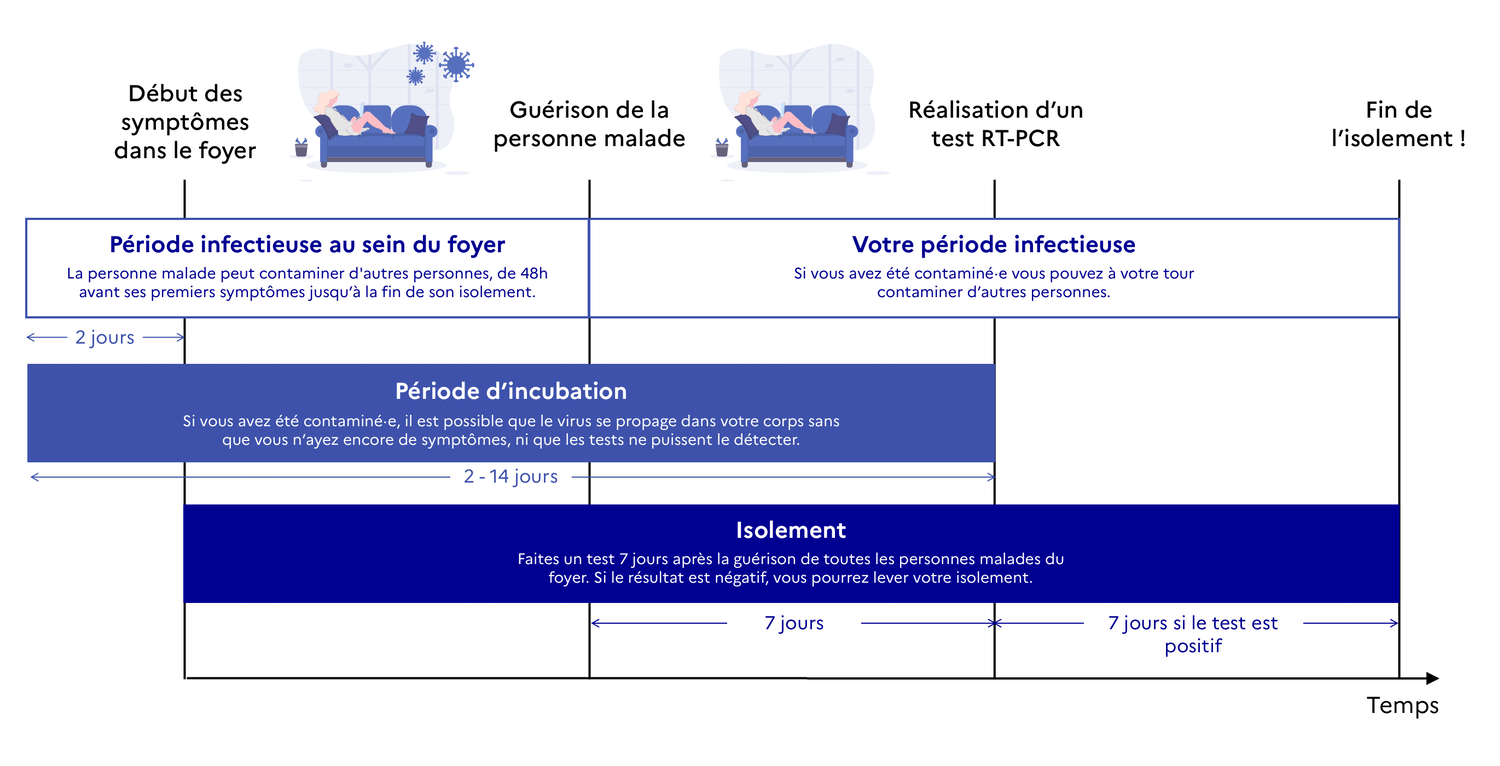
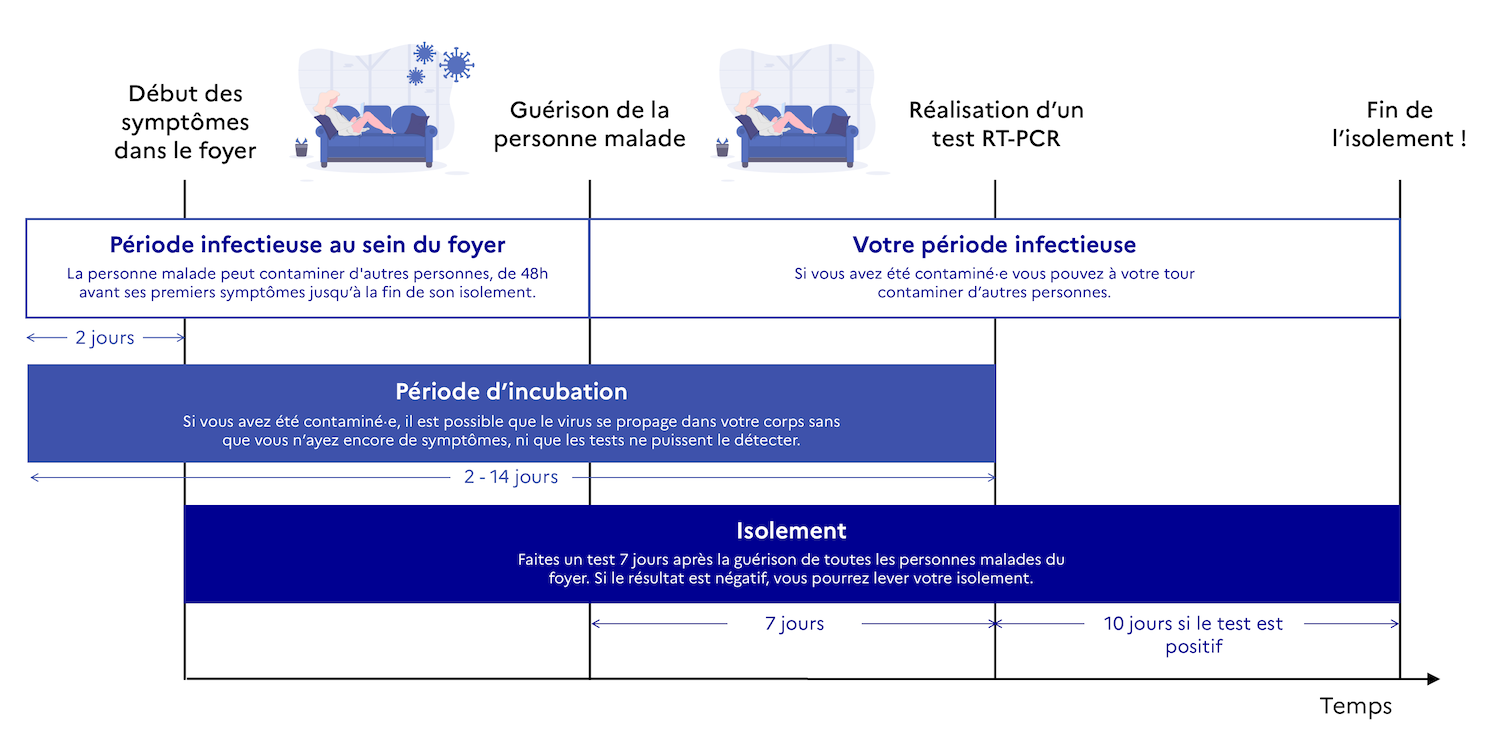
Mise à jour de la doctrine pour les cas contact
- mêmes recommandations quel que soit le variant
- test antigénique immédiatement
- test antigénique ou PCR à 7 jours
- isolement de 10 jours en cas de test positif

diff --git a/src/scripts/algorithme/orientation.js b/src/scripts/algorithme/orientation.js
@@ -10,8 +10,6 @@ const STATUTS = [
     'contact-a-risque-meme-lieu-de-vie',
     'contact-a-risque-meme-lieu-de-vie-sans-depistage',
     'contact-a-risque-sans-test',
-    'contact-a-risque-variante-d-interet-avec-test',
-    'contact-a-risque-variante-d-interet-sans-test',
     'en-attente',
     'personne-fragile',
     'peu-de-risques',
@@ -29,7 +27,6 @@ const STATUTS = [
 const CONSEILS_PERSONNELS = [
     'antigenique-negatif-fragile',
     'contact-a-risque',
-    'contact-a-risque-variante-d-interet',
     'contact-a-risque-autre',
     'contact-a-risque-meme-lieu-de-vie',
     'contact-a-risque-meme-lieu-de-vie-sans-depistage',
@@ -97,10 +94,6 @@ export default class AlgorithmeOrientation {
         }
     }
 
-    contactARisqueVarianteDInteret() {
-        return VARIANTES_D_INTERET[this.profil.contact_a_risque_variante]
-    }
-
     depistageVarianteDInteret() {
         return VARIANTES_D_INTERET[this.profil.depistage_variante]
     }
@@ -117,8 +110,6 @@ export default class AlgorithmeOrientation {
         } else if (this.profil.hasContactARisqueReconnus()) {
             if (this.profil.contact_a_risque_meme_lieu_de_vie) {
                 symptomes = 'contact_a_risque_meme_lieu_de_vie'
-            } else if (this.contactARisqueVarianteDInteret()) {
-                symptomes = 'contact_a_risque_variante_d_interet'
             } else {
                 symptomes = 'contact_a_risque'
             }
@@ -309,19 +300,6 @@ export default class AlgorithmeOrientation {
                 return {
                     statut: 'contact-a-risque-avec-test',
                     conseils: 'contact-a-risque',
-                }
-
-            case 'negatif_contact_a_risque_variante_d_interet':
-            case 'en_attente_contact_a_risque_variante_d_interet':
-                return {
-                    statut: 'contact-a-risque-variante-d-interet-avec-test',
-                    conseils: 'contact-a-risque-variante-d-interet-avec-test',
-                }
-
-            case 'pas_teste_contact_a_risque_variante_d_interet':
-                return {
-                    statut: 'contact-a-risque-variante-d-interet-sans-test',
-                    conseils: 'contact-a-risque-variante-d-interet-sans-test',
                 }
 
             case 'negatif_contact_pas_vraiment_a_risque':

diff --git a/src/template.html b/src/template.html
@@ -743,12 +743,6 @@
                     <div id="statut-contact-a-risque-sans-test" class="statut statut-contact-a-risque-sans-test" hidden>
                         {{ statut_contact_a_risque_sans_test }}
                     </div>
-                    <div id="statut-contact-a-risque-variante-d-interet-avec-test" class="statut statut-contact-a-risque-variante-d-interet-avec-test" hidden>
-                        {{ statut_contact_a_risque_variante_d_interet_avec_test }}
-                    </div>
-                    <div id="statut-contact-a-risque-variante-d-interet-sans-test" class="statut statut-contact-a-risque-variante-d-interet-sans-test" hidden>
-                        {{ statut_contact_a_risque_variante_d_interet_sans_test }}
-                    </div>
                     <div id="statut-en-attente" class="statut statut-en-attente" hidden>
                         {{ statut_en_attente }}
                     </div>
@@ -829,12 +823,6 @@
                 </div>
                 <div id="conseils-personnels-contact-a-risque-meme-lieu-de-vie-sans-depistage" class="conseil" hidden>
                     {{ conseils_personnels_contact_à_risque_meme_lieu_de_vie_sans_depistage }}
-                </div>
-                <div id="conseils-personnels-contact-a-risque-variante-d-interet-avec-test" class="conseil" hidden>
-                    {{ conseils_personnels_contact_à_risque_variante_d_interet_avec_test }}
-                </div>
-                <div id="conseils-personnels-contact-a-risque-variante-d-interet-sans-test" class="conseil" hidden>
-                    {{ conseils_personnels_contact_à_risque_variante_d_interet_sans_test }}
                 </div>
                 <div id="conseils-personnels-depistage-positif-antigenique-asymptomatique" class="conseil" hidden>
                     {{ conseils_personnels_depistage_positif_antigenique_asymptomatique }}

diff --git a/src/scripts/tests/test.situation.js b/src/scripts/tests/test.situation.js
@@ -616,9 +616,9 @@ const matrice = [
             depistage_resultat: 'negatif',
             _depistage_start_date: new Date().toJSON(),
         },
-        situation: 'negatif_contact_a_risque_variante_d_interet',
-        statut: 'contact-a-risque-variante-d-interet-avec-test',
-        conseils: 'contact-a-risque-variante-d-interet-avec-test',
+        situation: 'negatif_contact_a_risque',
+        statut: 'contact-a-risque-avec-test',
+        conseils: 'contact-a-risque',
     },
     {
         description: 'Négatif et contact à risque même lieu de vie',
@@ -785,9 +785,9 @@ const matrice = [
             depistage_resultat: 'en_attente',
             _depistage_start_date: new Date().toJSON(),
         },
-        situation: 'en_attente_contact_a_risque_variante_d_interet',
-        statut: 'contact-a-risque-variante-d-interet-avec-test',
-        conseils: 'contact-a-risque-variante-d-interet-avec-test',
+        situation: 'en_attente_contact_a_risque',
+        statut: 'contact-a-risque-avec-test',
+        conseils: 'contact-a-risque',
     },
     {
         description: 'En attente et contact à risque même lieu de vie',
@@ -883,9 +883,9 @@ const matrice = [
             contact_a_risque_variante: '20H/501Y.V2_ou_20J/501Y.V3',
             depistage: false,
         },
-        situation: 'pas_teste_contact_a_risque_variante_d_interet',
-        statut: 'contact-a-risque-variante-d-interet-sans-test',
-        conseils: 'contact-a-risque-variante-d-interet-sans-test',
+        situation: 'pas_teste_contact_a_risque',
+        statut: 'contact-a-risque-sans-test',
+        conseils: 'contact-a-risque',
     },
     {
         description: 'Pas testé et contact à risque même lieu de vie',

diff --git a/src/style.css b/src/style.css
@@ -644,8 +644,6 @@ main footer .legals {
 .statut-contact-a-risque-meme-lieu-de-vie,
 .statut-contact-a-risque-meme-lieu-de-vie-sans-depistage,
 .statut-contact-a-risque-sans-test,
-.statut-contact-a-risque-variante-d-interet-avec-test,
-.statut-contact-a-risque-variante-d-interet-sans-test,
 .statut-positif-symptomatique-urgent,
 .statut-symptomatique-antigenique-positif,
 .statut-symptomatique-en-attente,

diff --git a/src/scripts/tests/integration/test.parcours.js b/src/scripts/tests/integration/test.parcours.js
@@ -241,7 +241,7 @@ describe('Parcours', function () {
             )
             assert.include(
                 (await contact_a_risque.innerText()).trim(),
-                'Prévoir un test en laboratoire'
+                'Si le test est négatif, restez en isolement, et faites un test'
             )
             await waitForPlausibleTrackingEvent(page, 'Questionnaire terminé:conseils')
         }

diff --git a/contenus/conseils/README.md b/contenus/conseils/README.md
@@ -340,13 +340,15 @@ Comme vous avez des signes de la Covid et que vous avez des risques de développ
 
 Nous vous conseillons de :
 
-1. Vous maintenir **en isolement pendant 7 jours** après le dernier contact à risque.
-2. Appliquer **les mesures barrières renforcées** avec les autres membres de votre foyer.
-3. Si vous constatez l’apparition de **symptômes**, contactez votre médecin et faites vous tester. Vous pouvez suivre l’évolution de vos symptômes avec le [questionnaire de suivi](#suivisymptomes).
-4. **Prévoir un test en laboratoire au 7<sup>e</sup> jour** suivant le dernier contact avec le malade, en consultant [la carte des lieux de test](https://www.sante.fr/cf/centres-depistage-covid.html). En tant que « Cas contact » d’une personne malade vous serez prioritaire pour faire votre test :
-    * S’il est **négatif**, vous pourrez lever votre isolement.
-    * Si le test est **positif**, il faudra à nouveau 7 jours d’isolement, et surveiller l’apparition de symptômes.
-5. Revenir sur Mes Conseils Covid **si votre situation change** afin d’avoir les conseils adaptés à votre nouvelle situation !
+1. Vous maintenir **en isolement**.
+2. Faire un **test antigénique immédiatement** (voir la [carte des lieux de test](https://www.sante.fr/cf/centres-depistage-covid.html)).
+    * Si le test est **positif**, restez **en isolement au moins 10 jours** à partir de la date du test, et renseignez le [résultat du test](#depistage) pour mettre à jour ces conseils.
+    * Si le test est **négatif**, restez **en isolement**, et faites un test **7 jours après le dernier contact à risque** ;
+        * s’il est **négatif**, vous pourrez lever votre isolement ;
+        * s’il est **positif**, restez en isolement **au moins 10 jours** à partir de la date du test, et surveillez l’apparition de symptômes.
+5. Appliquer **les mesures barrières renforcées** avec les autres membres de votre foyer.
+6. Si vous constatez l’apparition de **symptômes**, contactez votre médecin et faites vous tester. Vous pouvez suivre l’évolution de vos symptômes avec le [questionnaire de suivi](#suivisymptomes).
+7. Revenir sur Mes Conseils Covid **si votre situation change** afin d’avoir les conseils adaptés à votre nouvelle situation !
 
 
 
@@ -365,10 +367,10 @@ Nous vous conseillons de :
 
 1. Vous maintenir **en isolement**.
 2. Appliquer **les mesures barrières renforcées** avec la personne malade et les autres membres de votre foyer.
-3. **Faire un test** en laboratoire 7 jours après la guérison de la personne malade :
-    * S’il est **négatif**, vous pourrez lever votre isolement.
-    * Si le test est **positif**, il faudra à nouveau 7 jours d’isolement, et surveiller l’apparition de symptômes.
-4. Si vous constatez l’apparition de **symptômes**, contactez votre médecin, et suivez leur évolution avec le [questionnaire de suivi](#suivisymptomes).
+3. Faire un test **7 jours après la guérison** de la personne malade :
+    * s’il est **négatif**, vous pourrez lever votre isolement ;
+    * s’il est **positif**, restez en isolement **au moins 10 jours** à partir de la date du test, et surveillez l’apparition de symptômes.
+4. Si vous constatez l’apparition de **symptômes**, contactez votre médecin et faites vous tester. Vous pourrez suivre leur évolution avec le [questionnaire de suivi](#suivisymptomes).
 5. Revenir sur Mes Conseils Covid **si votre situation change** afin d’avoir les conseils adaptés à votre nouvelle situation !
 
 
@@ -378,42 +380,14 @@ Nous vous conseillons de :
 Nous vous conseillons de :
 
 1. Vous maintenir **en isolement**.
-2. Appliquer **les mesures barrières renforcées** avec la personne malade et les autres membres de votre foyer.
-3. Faire un **test de dépistage** en laboratoire :
-    * Si celui-ci est positif, **restez 7 jours en isolement**.
-    * Si celui-ci est négatif, **restez en isolement** et **refaites un test** 7 jours après la guérison de la personne malade.
-4. Si vous constatez l’apparition de **symptômes**, contactez votre médecin et faites vous tester. Vous pouvez suivre l’évolution de vos symptômes avec le [questionnaire de suivi](#suivisymptomes).
-5. Revenir sur Mes Conseils Covid **si votre situation change** afin d’avoir les conseils adaptés à votre nouvelle situation !
-
-
-
-## [conseils_personnels_contact_à_risque_variante_d_interet_avec_test.md](conseils_personnels_contact_à_risque_variante_d_interet_avec_test.md)
-
-Nous vous conseillons de :
-
-1. **Refaire un test RT-PCR immédiatement**, si votre dernier test date d’avant votre dernier contact à risque, pour pouvoir prévenir au plus vite les personnes avec qui vous avez été en contact. Consultez [la carte des lieux de test](https://www.sante.fr/cf/centres-depistage-covid.html) pour trouver un laboratoire. En tant que « cas contact » d’une personne malade, vous serez prioritaire pour faire votre test.
-2. Vous maintenir **en isolement** pendant au moins **7 jours** après le dernier contact à risque, même si le résultat du premier test est négatif.
-3. Faire un **test de contrôle** au 7<sup>e</sup> jour après le dernier contact à risque :
-    * s’il est **négatif**, vous pourrez lever votre isolement ;
-    * s’il est **positif**, vous devrez prolonger votre isolement pendant **7 jours**, puis vous pourrez lever votre isolement.
-4. Appliquer **les mesures barrières renforcées** avec les autres membres de votre foyer.
-5. Si vous constatez l’apparition de **symptômes**, contactez votre médecin. Vous pouvez suivre l’évolution de vos symptômes avec le [questionnaire de suivi](#suivisymptomes).
-6. Revenir sur Mes Conseils Covid **si votre situation change** afin d’avoir les conseils adaptés à votre nouvelle situation !
-
-
-
-## [conseils_personnels_contact_à_risque_variante_d_interet_sans_test.md](conseils_personnels_contact_à_risque_variante_d_interet_sans_test.md)
-
-Nous vous conseillons de :
-
-1. **Faire un test RT-PCR immédiatement**, pour pouvoir prévenir au plus vite les personnes avec qui vous avez été en contact. Consultez [la carte des lieux de test](https://www.sante.fr/cf/centres-depistage-covid.html) pour trouver un laboratoire. En tant que « cas contact » d’une personne malade, vous serez prioritaire pour faire votre test.
-2. Vous maintenir **en isolement** pendant au moins **7 jours** après le dernier contact à risque, même si le résultat du premier test est négatif.
-3. Faire un **test de contrôle** au 7<sup>e</sup> jour :
-    * s’il est **négatif**, vous pourrez lever votre isolement ;
-    * s’il est **positif**, vous devrez prolonger votre isolement pendant **7 jours**, puis vous pourrez lever votre isolement.
-4. Appliquer **les mesures barrières renforcées** avec les autres membres de votre foyer.
-5. Si vous constatez l’apparition de **symptômes**, contactez votre médecin. Vous pouvez suivre l’évolution de vos symptômes avec le [questionnaire de suivi](#suivisymptomes).
-6. Revenir sur Mes Conseils Covid **si votre situation change** afin d’avoir les conseils adaptés à votre nouvelle situation !
+2. Faire un **test antigénique immédiatement** (voir la [carte des lieux de test](https://www.sante.fr/cf/centres-depistage-covid.html)).
+    * Si le test est **positif**, restez **en isolement au moins 10 jours** à partir de la date du test, et renseignez le [résultat du test](#depistage) pour mettre à jour ces conseils.
+    * Si le test est **négatif**, restez **en isolement**, et faites un test **7 jours après la guérison** de la personne malade ;
+        * s’il est **négatif**, vous pourrez lever votre isolement ;
+        * s’il est **positif**, restez en isolement **au moins 10 jours** à partir de la date du test, et surveillez l’apparition de symptômes.
+5. Appliquer **les mesures barrières renforcées** avec la personne malade et les autres membres de votre foyer.
+6. Si vous constatez l’apparition de **symptômes**, contactez votre médecin et faites vous tester. Vous pouvez suivre l’évolution de vos symptômes avec le [questionnaire de suivi](#suivisymptomes).
+7. Revenir sur Mes Conseils Covid **si votre situation change** afin d’avoir les conseils adaptés à votre nouvelle situation !
 
 
 

diff --git a/diagrammes/matrice-statuts-conseils.md b/diagrammes/matrice-statuts-conseils.md
@@ -162,7 +162,7 @@
         </tr>
         <tr>
             <td style="border: 1px solid black; padding: 1rem;" valign="middle" height="190" bgcolor="#EEEEEE" align="center"><b>Contact à risque</b></td>
-            <td style="border: 1px solid black; padding: 1rem;" rowspan="5" valign="middle" bgcolor="#FFFFD7" align="center">
+            <td style="border: 1px solid black; padding: 1rem;" rowspan="4" valign="middle" bgcolor="#FFFFD7" align="center">
                 <a href="../contenus/statuts/statut_asymptomatique_variante_d_interet.md">
                     statut_asymptomatique_variante_d_interet.md
                 </a>
@@ -171,7 +171,7 @@
                     conseils_personnels_depistage_positif_variante_d_interet_asymptomatique.md
                 </a>
             </td>
-            <td style="border: 1px solid black; padding: 1rem;" rowspan="5" valign="middle" bgcolor="#FFFFD7" align="center">
+            <td style="border: 1px solid black; padding: 1rem;" rowspan="4" valign="middle" bgcolor="#FFFFD7" align="center">
                 <a href="../contenus/statuts/statut_asymptomatique.md">
                     statut_asymptomatique.md
                 </a>
@@ -180,7 +180,7 @@
                     conseils_personnels_depistage_positif_asymptomatique.md
                 </a>
             </td>
-            <td style="border: 1px solid black; padding: 1rem;" rowspan="5" valign="middle" bgcolor="#FFFFD7" align="center">
+            <td style="border: 1px solid black; padding: 1rem;" rowspan="4" valign="middle" bgcolor="#FFFFD7" align="center">
                 <a href="../contenus/statuts/statut_asymptomatique_positif_antigenique.md">
                     statut_asymptomatique_positif_antigenique.md
                 </a>
@@ -205,27 +205,6 @@
                 <br><br>
                 <a href="../contenus/conseils/conseils_personnels_contact_à_risque.md">
                     conseils_personnels_contact_à_risque.md
-                </a>
-            </td>
-        </tr>
-        <tr>
-            <td style="border: 1px solid black; padding: 1rem;" valign="middle" height="190" bgcolor="#EEEEEE" align="center"><b>Contact à risque (variante d’intérêt)</b></td>
-            <td style="border: 1px solid black; padding: 1rem;" colspan="3" valign="middle" bgcolor="#FFFFD7" align="center">
-                <a href="../contenus/statuts/statut_contact_a_risque_variante_d_interet_avec_test.md">
-                    statut_contact_a_risque_variante_d_interet_avec_test.md
-                </a>
-                <br><br>
-                <a href="../contenus/conseils/conseils_personnels_contact_à_risque_variante_d_interet_avec_test.md">
-                    conseils_personnels_contact_à_risque_variante_d_interet_avec_test.md
-                </a>
-            </td>
-            <td style="border: 1px solid black; padding: 1rem;" valign="middle" bgcolor="#FFFFD7" align="center">
-                <a href="../contenus/statuts/statut_contact_a_risque_variante_d_interet_sans_test.md">
-                    statut_contact_a_risque_variante_d_interet_sans_test.md
-                </a>
-                <br><br>
-                <a href="../contenus/conseils/conseils_personnels_contact_à_risque_variante_d_interet_sans_test.md">
-                    conseils_personnels_contact_à_risque_variante_d_interet_sans_test.md
                 </a>
             </td>
         </tr>

diff --git a/contenus/conseils/conseils_personnels_contact_à_risque.md b/contenus/conseils/conseils_personnels_contact_à_risque.md
@@ -1,9 +1,11 @@
 Nous vous conseillons de :
 
-1. Vous maintenir **en isolement pendant 7 jours** après le dernier contact à risque.
-2. Appliquer **les mesures barrières renforcées** avec les autres membres de votre foyer.
-3. Si vous constatez l’apparition de **symptômes**, contactez votre médecin et faites vous tester. Vous pouvez suivre l’évolution de vos symptômes avec le [questionnaire de suivi](#suivisymptomes).
-4. **Prévoir un test en laboratoire au 7<sup>e</sup> jour** suivant le dernier contact avec le malade, en consultant [la carte des lieux de test](https://www.sante.fr/cf/centres-depistage-covid.html). En tant que « Cas contact » d’une personne malade vous serez prioritaire pour faire votre test :
-    * S’il est **négatif**, vous pourrez lever votre isolement.
-    * Si le test est **positif**, il faudra à nouveau 7 jours d’isolement, et surveiller l’apparition de symptômes.
-5. Revenir sur Mes Conseils Covid **si votre situation change** afin d’avoir les conseils adaptés à votre nouvelle situation !
+1. Vous maintenir **en isolement**.
+2. Faire un **test antigénique immédiatement** (voir la [carte des lieux de test](https://www.sante.fr/cf/centres-depistage-covid.html)).
+    * Si le test est **positif**, restez **en isolement au moins 10 jours** à partir de la date du test, et renseignez le [résultat du test](#depistage) pour mettre à jour ces conseils.
+    * Si le test est **négatif**, restez **en isolement**, et faites un test **7 jours après le dernier contact à risque** ;
+        * s’il est **négatif**, vous pourrez lever votre isolement ;
+        * s’il est **positif**, restez en isolement **au moins 10 jours** à partir de la date du test, et surveillez l’apparition de symptômes.
+5. Appliquer **les mesures barrières renforcées** avec les autres membres de votre foyer.
+6. Si vous constatez l’apparition de **symptômes**, contactez votre médecin et faites vous tester. Vous pouvez suivre l’évolution de vos symptômes avec le [questionnaire de suivi](#suivisymptomes).
+7. Revenir sur Mes Conseils Covid **si votre situation change** afin d’avoir les conseils adaptés à votre nouvelle situation !

diff --git a/contenus/conseils/conseils_personnels_contact_à_risque_meme_lieu_de_vie_sans_depistage.md b/contenus/conseils/conseils_personnels_contact_à_risque_meme_lieu_de_vie_sans_depistage.md
@@ -1,9 +1,11 @@
 Nous vous conseillons de :
 
 1. Vous maintenir **en isolement**.
-2. Appliquer **les mesures barrières renforcées** avec la personne malade et les autres membres de votre foyer.
-3. Faire un **test de dépistage** en laboratoire :
-    * Si celui-ci est positif, **restez 7 jours en isolement**.
-    * Si celui-ci est négatif, **restez en isolement** et **refaites un test** 7 jours après la guérison de la personne malade.
-4. Si vous constatez l’apparition de **symptômes**, contactez votre médecin et faites vous tester. Vous pouvez suivre l’évolution de vos symptômes avec le [questionnaire de suivi](#suivisymptomes).
-5. Revenir sur Mes Conseils Covid **si votre situation change** afin d’avoir les conseils adaptés à votre nouvelle situation !
+2. Faire un **test antigénique immédiatement** (voir la [carte des lieux de test](https://www.sante.fr/cf/centres-depistage-covid.html)).
+    * Si le test est **positif**, restez **en isolement au moins 10 jours** à partir de la date du test, et renseignez le [résultat du test](#depistage) pour mettre à jour ces conseils.
+    * Si le test est **négatif**, restez **en isolement**, et faites un test **7 jours après la guérison** de la personne malade ;
+        * s’il est **négatif**, vous pourrez lever votre isolement ;
+        * s’il est **positif**, restez en isolement **au moins 10 jours** à partir de la date du test, et surveillez l’apparition de symptômes.
+5. Appliquer **les mesures barrières renforcées** avec la personne malade et les autres membres de votre foyer.
+6. Si vous constatez l’apparition de **symptômes**, contactez votre médecin et faites vous tester. Vous pouvez suivre l’évolution de vos symptômes avec le [questionnaire de suivi](#suivisymptomes).
+7. Revenir sur Mes Conseils Covid **si votre situation change** afin d’avoir les conseils adaptés à votre nouvelle situation !

diff --git a/contenus/statuts/README.md b/contenus/statuts/README.md
@@ -35,31 +35,17 @@ Restez **en isolement** et **refaites un test** 7 jours après votre dernier co
 
 ## [statut_contact_a_risque_meme_lieu_de_vie.md](statut_contact_a_risque_meme_lieu_de_vie.md)
 
-Restez **en isolement**.
-
+Restez **en isolement**, et refaites un test 7 jours après la guérison de la personne malade.
 
 
 ## [statut_contact_a_risque_meme_lieu_de_vie_sans_depistage.md](statut_contact_a_risque_meme_lieu_de_vie_sans_depistage.md)
 
-Restez **en isolement** et **faites un test** dès que possible.
-
+Faites un **test antigénique immédiatement**, restez en **isolement**, puis  refaites un test 7 jours après la guérison de la personne malade.
 
 
 ## [statut_contact_a_risque_sans_test.md](statut_contact_a_risque_sans_test.md)
 
-Restez **en isolement** et **faites un test** 7 jours après votre dernier contact à risque.
-
-
-
-## [statut_contact_a_risque_variante_d_interet_avec_test.md](statut_contact_a_risque_variante_d_interet_avec_test.md)
-
-Refaites un **test immédiatement** (s’il date d’avant votre contact à risque), restez en **isolement**, puis faites un test de contrôle après 7 jours.
-
-
-## [statut_contact_a_risque_variante_d_interet_sans_test.md](statut_contact_a_risque_variante_d_interet_sans_test.md)
-
-Faites un **test immédiatement**, restez en **isolement**, puis faites un test de contrôle après 7 jours.
-
+Faites un **test antigénique immédiatement**, restez en **isolement**, puis refaites un test 7 jours après votre dernier contact à risque.
 
 
 ## [statut_en_attente.md](statut_en_attente.md)

diff --git a/contenus/conseils/conseils_personnels_contact_à_risque_meme_lieu_de_vie.md b/contenus/conseils/conseils_personnels_contact_à_risque_meme_lieu_de_vie.md
@@ -2,8 +2,8 @@ Nous vous conseillons de :
 
 1. Vous maintenir **en isolement**.
 2. Appliquer **les mesures barrières renforcées** avec la personne malade et les autres membres de votre foyer.
-3. **Faire un test** en laboratoire 7 jours après la guérison de la personne malade :
-    * S’il est **négatif**, vous pourrez lever votre isolement.
-    * Si le test est **positif**, il faudra à nouveau 7 jours d’isolement, et surveiller l’apparition de symptômes.
-4. Si vous constatez l’apparition de **symptômes**, contactez votre médecin, et suivez leur évolution avec le [questionnaire de suivi](#suivisymptomes).
+3. Faire un test **7 jours après la guérison** de la personne malade :
+    * s’il est **négatif**, vous pourrez lever votre isolement ;
+    * s’il est **positif**, restez en isolement **au moins 10 jours** à partir de la date du test, et surveillez l’apparition de symptômes.
+4. Si vous constatez l’apparition de **symptômes**, contactez votre médecin et faites vous tester. Vous pourrez suivre leur évolution avec le [questionnaire de suivi](#suivisymptomes).
 5. Revenir sur Mes Conseils Covid **si votre situation change** afin d’avoir les conseils adaptés à votre nouvelle situation !

diff --git a/contenus/statuts/statut_contact_a_risque_sans_test.md b/contenus/statuts/statut_contact_a_risque_sans_test.md
@@ -1,1 +1,1 @@
-Restez **en isolement** et **faites un test** 7 jours après votre dernier contact à risque.
+Faites un **test antigénique immédiatement**, restez en **isolement**, puis refaites un test 7 jours après votre dernier contact à risque.
